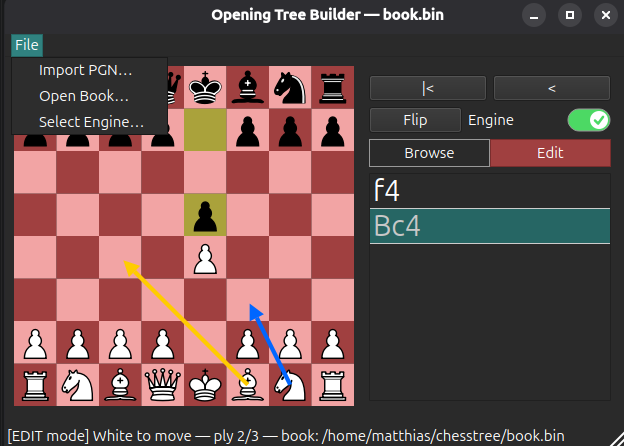
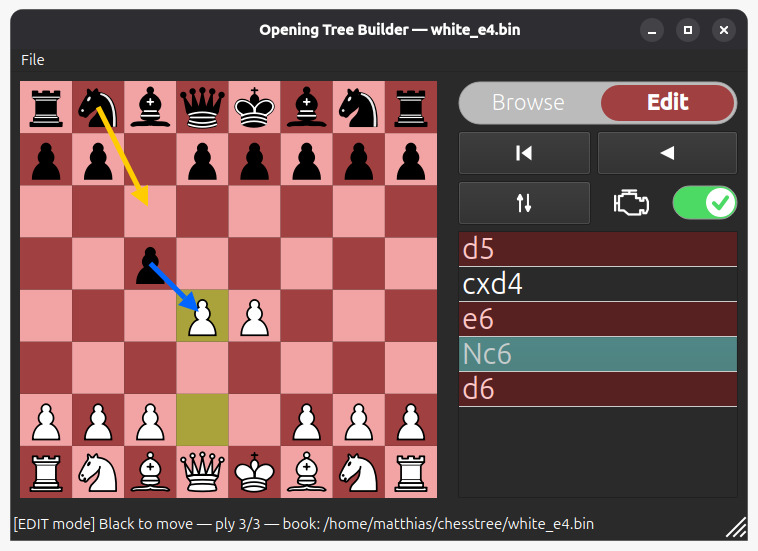
layout fixes, hovering

diff --git a/otb.py b/otb.py
@@ -18,6 +18,7 @@
 
 from __future__ import annotations
 
+import base64
 import os
 import re
 import struct
@@ -103,7 +104,6 @@ NAV_BUTTON_STYLE = (
     "QPushButton:hover:enabled { background-color: #888888; }"
 )
 NAV_ICON_SIZE = 22
-ENGINE_ICON_SIZE = 32  # matches ToggleSwitch's fixed height (58x32)
 
 
 def _icon_color() -> QColor:
@@ -220,43 +220,76 @@ def _make_skip_start_icon(size: int = NAV_ICON_SIZE, color: QColor | None = None
     return _build_dual_icon(_draw_skip_start_pixmap, size, color)
 
 
+ENGINE_ICON_PNG_B64 = (
[40 lines of base64/hex data omitted]
+    "SUVORK5CYII="
+)
+
+
 def _make_engine_icon(size: int = NAV_ICON_SIZE, color: QColor | None = None) -> QIcon:
-    """A simplified engine-block silhouette, in the style of the
-    automotive 'check engine' warning light (SAE J1930) -- a block body
-    with a pointed front nose and a row of studs on top -- used in place
-    of a gear, since a gear reads as 'settings', not specifically
-    'engine'. Proportioned to use nearly the full canvas height (net
-    visible height close to the toggle switch's height), not just a thin
-    middle band."""
+    """The standard automotive 'check engine' dashboard warning light
+    glyph (embedded PNG artwork, recolored at paint time), rather than a
+    hand-drawn approximation. Recoloring uses CompositionMode_SourceIn:
+    draw the source artwork, then fill with the target color -- the fill
+    only lands where the artwork's own alpha is non-zero, so its exact
+    silhouette (including antialiased edges) is preserved, just tinted
+    to whatever _icon_color() says for the current light/dark theme."""
     color = color or _icon_color()
-    pixmap = QPixmap(size, size)
-    pixmap.fill(Qt.GlobalColor.transparent)
-    painter = QPainter(pixmap)
-    painter.setRenderHint(QPainter.RenderHint.Antialiasing)
-    painter.setPen(Qt.PenStyle.NoPen)
-    painter.setBrush(color)
 
-    path = QPainterPath()
+    src = QPixmap()
+    src.loadFromData(base64.b64decode(ENGINE_ICON_PNG_B64), "PNG")
+    src = src.scaled(
+        size, size, Qt.AspectRatioMode.KeepAspectRatio, Qt.TransformationMode.SmoothTransformation
+    )
 
-    body = QRectF(size * 0.16, size * 0.34, size * 0.62, size * 0.60)
-    path.addRoundedRect(body, size * 0.05, size * 0.05)
-
-    nose = QPainterPath()  # pointed front, like the dashboard icon's distributor bump
-    nose.moveTo(size * 0.16, size * 0.48)
-    nose.lineTo(size * 0.04, size * 0.64)
-    nose.lineTo(size * 0.16, size * 0.80)
-    nose.closeSubpath()
-    path = path.united(nose)
-
-    for i in range(3):  # studs on top, evenly spaced
-        x = size * (0.26 + i * 0.155)
-        stud = QPainterPath()
-        stud.addRoundedRect(QRectF(x, size * 0.06, size * 0.09, size * 0.32), size * 0.02, size * 0.02)
-        path = path.united(stud)
-
-    painter.drawPath(path)
+    result = QPixmap(src.size())
+    result.fill(Qt.GlobalColor.transparent)
+    painter = QPainter(result)
+    painter.drawPixmap(0, 0, src)
+    painter.setCompositionMode(QPainter.CompositionMode.CompositionMode_SourceIn)
+    painter.fillRect(result.rect(), color)
     painter.end()
-    return QIcon(pixmap)
+
+    return QIcon(result)
 
 
 class ToggleSwitch(QAbstractButton):
@@ -279,6 +312,7 @@ class ToggleSwitch(QAbstractButton):
         self.setFixedSize(58, 32)
 
         self._knob_pos = 0.0  # 0.0 = left/off, 1.0 = right/on
+        self._hovered = False
         self._animation = QPropertyAnimation(self, b"knobPos", self)
         self._animation.setDuration(150)
         self._animation.setEasingCurve(QEasingCurve.Type.InOutCubic)
@@ -289,6 +323,16 @@ class ToggleSwitch(QAbstractButton):
         self._animation.setStartValue(self._knob_pos)
         self._animation.setEndValue(1.0 if checked else 0.0)
         self._animation.start()
+
+    def enterEvent(self, event):
+        self._hovered = True
+        self.update()
+        super().enterEvent(event)
+
+    def leaveEvent(self, event):
+        self._hovered = False
+        self.update()
+        super().leaveEvent(event)
 
     def _get_knob_pos(self) -> float:
         return self._knob_pos
@@ -315,8 +359,9 @@ class ToggleSwitch(QAbstractButton):
         rect = QRectF(self.rect()).adjusted(1, 1, -1, -1)
         radius = rect.height() / 2
 
+        track_off = self.TRACK_OFF_COLOR.darker(120) if self._hovered else self.TRACK_OFF_COLOR
         painter.setPen(self.BORDER_COLOR)
-        painter.setBrush(self._blend(self.TRACK_OFF_COLOR, self.TRACK_ON_COLOR, self._knob_pos))
+        painter.setBrush(self._blend(track_off, self.TRACK_ON_COLOR, self._knob_pos))
         painter.drawRoundedRect(rect, radius, radius)
 
         knob_diameter = rect.height() - 4
@@ -368,7 +413,6 @@ class ModeSwitch(QAbstractButton):
     TRACK_COLOR = QColor("#bbbbbb")       # grey: inactive background
     KNOB_OFF_COLOR = QColor("#40a040")    # green: Browse
     KNOB_ON_COLOR = QColor("#a04040")     # red: Edit
-    TEXT_COLOR = QColor("#ffffff")
 
     def __init__(self, parent=None):
         super().__init__(parent)
@@ -377,6 +421,7 @@ class ModeSwitch(QAbstractButton):
         self.setSizePolicy(QSizePolicy.Policy.Expanding, QSizePolicy.Policy.Fixed)
 
         self._knob_pos = 0.0  # 0.0 = left/Browse, 1.0 = right/Edit
+        self._hovered = False
         self._animation = QPropertyAnimation(self, b"knobPos", self)
         self._animation.setDuration(150)
         self._animation.setEasingCurve(QEasingCurve.Type.InOutCubic)
@@ -387,6 +432,16 @@ class ModeSwitch(QAbstractButton):
         self._animation.setStartValue(self._knob_pos)
         self._animation.setEndValue(1.0 if checked else 0.0)
         self._animation.start()
+
+    def enterEvent(self, event):
+        self._hovered = True
+        self.update()
+        super().enterEvent(event)
+
+    def leaveEvent(self, event):
+        self._hovered = False
+        self.update()
+        super().leaveEvent(event)
 
     def _get_knob_pos(self) -> float:
         return self._knob_pos
@@ -413,8 +468,9 @@ class ModeSwitch(QAbstractButton):
         rect = QRectF(self.rect()).adjusted(1, 1, -1, -1)
         radius = rect.height() / 2
 
-        painter.setPen(self.TRACK_COLOR.darker(115))
-        painter.setBrush(self.TRACK_COLOR)
+        track_color = self.TRACK_COLOR.darker(120) if self._hovered else self.TRACK_COLOR
+        painter.setPen(track_color.darker(115))
+        painter.setBrush(track_color)
         painter.drawRoundedRect(rect, radius, radius)
 
         half_w = rect.width() / 2
@@ -442,7 +498,7 @@ class ModeSwitch(QAbstractButton):
         edit_rect = QRectF(rect.left() + half_w, rect.top(), half_w, rect.height())
         browse_selected = self._knob_pos < 0.5
 
-        painter.setPen(self.TEXT_COLOR)
+        painter.setPen(_icon_color())
         painter.setFont(bold_font if browse_selected else light_font)
         painter.drawText(browse_rect, Qt.AlignmentFlag.AlignCenter, "Browse")
         painter.setFont(light_font if browse_selected else bold_font)
@@ -1064,7 +1120,6 @@ class MainWindow(QMainWindow):
             btn.setStyleSheet(NAV_BUTTON_STYLE)
 
         self.engine_label = QLabel()
-        self.engine_label.setPixmap(_make_engine_icon(ENGINE_ICON_SIZE).pixmap(ENGINE_ICON_SIZE, ENGINE_ICON_SIZE))
         self.engine_label.setToolTip("Engine")
         self.engine_toggle = ToggleSwitch()
         self.engine_toggle.setToolTip("Engine")
@@ -1075,6 +1130,9 @@ class MainWindow(QMainWindow):
         nav_button_height = self.btn_start.sizeHint().height()
         self.mode_switch.setFixedHeight(nav_button_height)
         self.engine_toggle.setFixedSize(int(nav_button_height * 1.9), nav_button_height)
+        self.engine_label.setPixmap(
+            _make_engine_icon(nav_button_height).pixmap(nav_button_height, nav_button_height)
+        )
         # self.mode == "BROWSE" is the default; knob starts unchecked/left (green)
 
         self.btn_start.clicked.connect(self.goto_start)
@@ -1092,12 +1150,21 @@ class MainWindow(QMainWindow):
         nav_grid.addWidget(self.btn_back, 1, 1)
         nav_grid.addWidget(self.btn_flip, 2, 0)
         engine_group = QHBoxLayout()
-        engine_group.setSpacing(3)  # icon sits close against the switch
         engine_group.addWidget(self.engine_label)
+        engine_group.addStretch()  # icon pinned left, switch pinned right
         engine_group.addWidget(self.engine_toggle)
-        nav_grid.addLayout(
-            engine_group, 2, 1, alignment=Qt.AlignmentFlag.AlignLeft | Qt.AlignmentFlag.AlignVCenter
-        )
+        nav_grid.addLayout(engine_group, 2, 1)  # fills the cell: matches btn_back's left/right edges
+
+        # Without this, column 1 (btn_back + engine_group) would size itself
+        # wider than column 0 (btn_start/btn_flip alone), since the engine
+        # group needs more room than a single icon-only button -- stretching
+        # btn_back to match and breaking "all three buttons same size".
+        # Forcing both columns to the same explicit minimum keeps every
+        # button identical while still giving the engine group enough room.
+        engine_group_width = self.engine_label.sizeHint().width() + 6 + self.engine_toggle.width()
+        column_width = max(self.btn_start.sizeHint().width(), engine_group_width)
+        nav_grid.setColumnMinimumWidth(0, column_width)
+        nav_grid.setColumnMinimumWidth(1, column_width)
 
         right = QVBoxLayout()
         right.setContentsMargins(0, 0, 0, 0)
@@ -1120,6 +1187,7 @@ class MainWindow(QMainWindow):
         # whenever a menu opens/closes (the menu pushes its own status tip).
         # A permanent widget is untouched by that, so the status text stays.
         self.status_label = QLabel()
+        self.status_label.setSizePolicy(QSizePolicy.Policy.Ignored, QSizePolicy.Policy.Preferred)
         self.statusBar().addWidget(self.status_label, 1)
         size_grip = ManualSizeGrip(self)
         self.statusBar().addPermanentWidget(size_grip)
